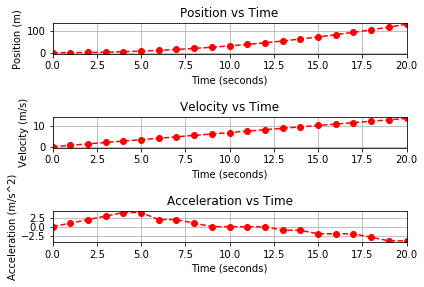
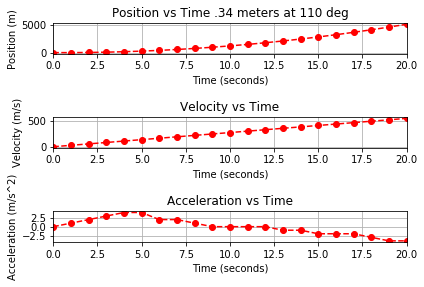
labels

diff --git a/Step 5/numerical model.py b/Step 5/numerical model.py
@@ -4,7 +4,7 @@ import numpy as np
 import scipy.signal as sig
 
 g = 9.81
-L = [5.5, 7.5, 9.5, 11.5, 13.5]
+L = [.14, .19, .24, .29, .34]
 pos = [0]
 vel = [0]
 acc = [0,1,2,3,4,4,2,2,1,0,0,0,0,-1,-1,-2,-2,-2,-3,-4,-4]
@@ -39,7 +39,7 @@ plt.plot(time, pos, 'ro--')
 
 plt.xlabel('Time (seconds)')
 plt.ylabel('Position (m)')
-plt.title('Position vs Time')
+plt.title('Position vs Time .34 meters at 110 deg')
 plt.xlim((0, 20)) # set x range to -1 to 8
 plt.grid()
 
@@ -74,7 +74,7 @@ def find_period(new_array):
     print(y_filt[y_filt_pks][7]-y_filt[y_filt_pks][8])
     
     
-p = [1.5, 1.75, 1.97, 2.17, 2.35]
+p = [.24, .28, .31, .34, .37]
 
 plt.plot(L, p, 'r--')
 plt.xlabel('Length in m')
